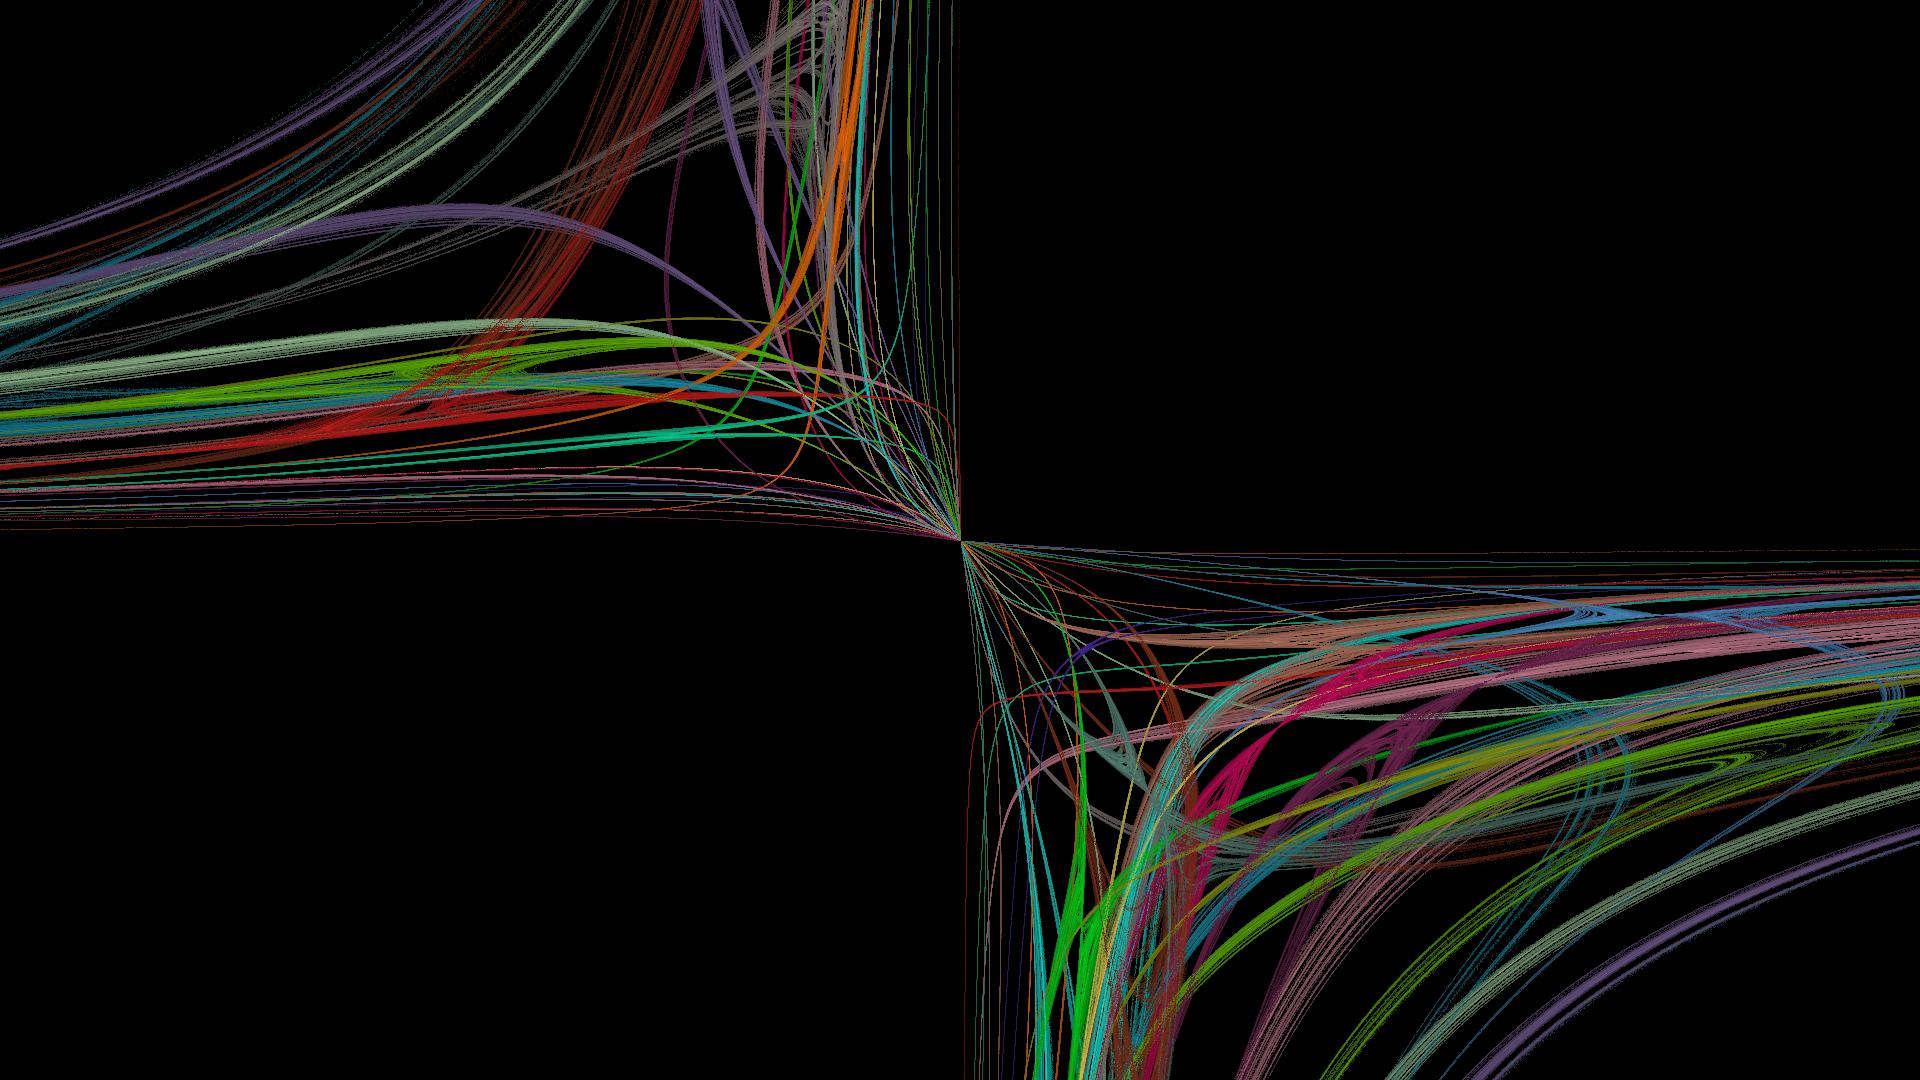
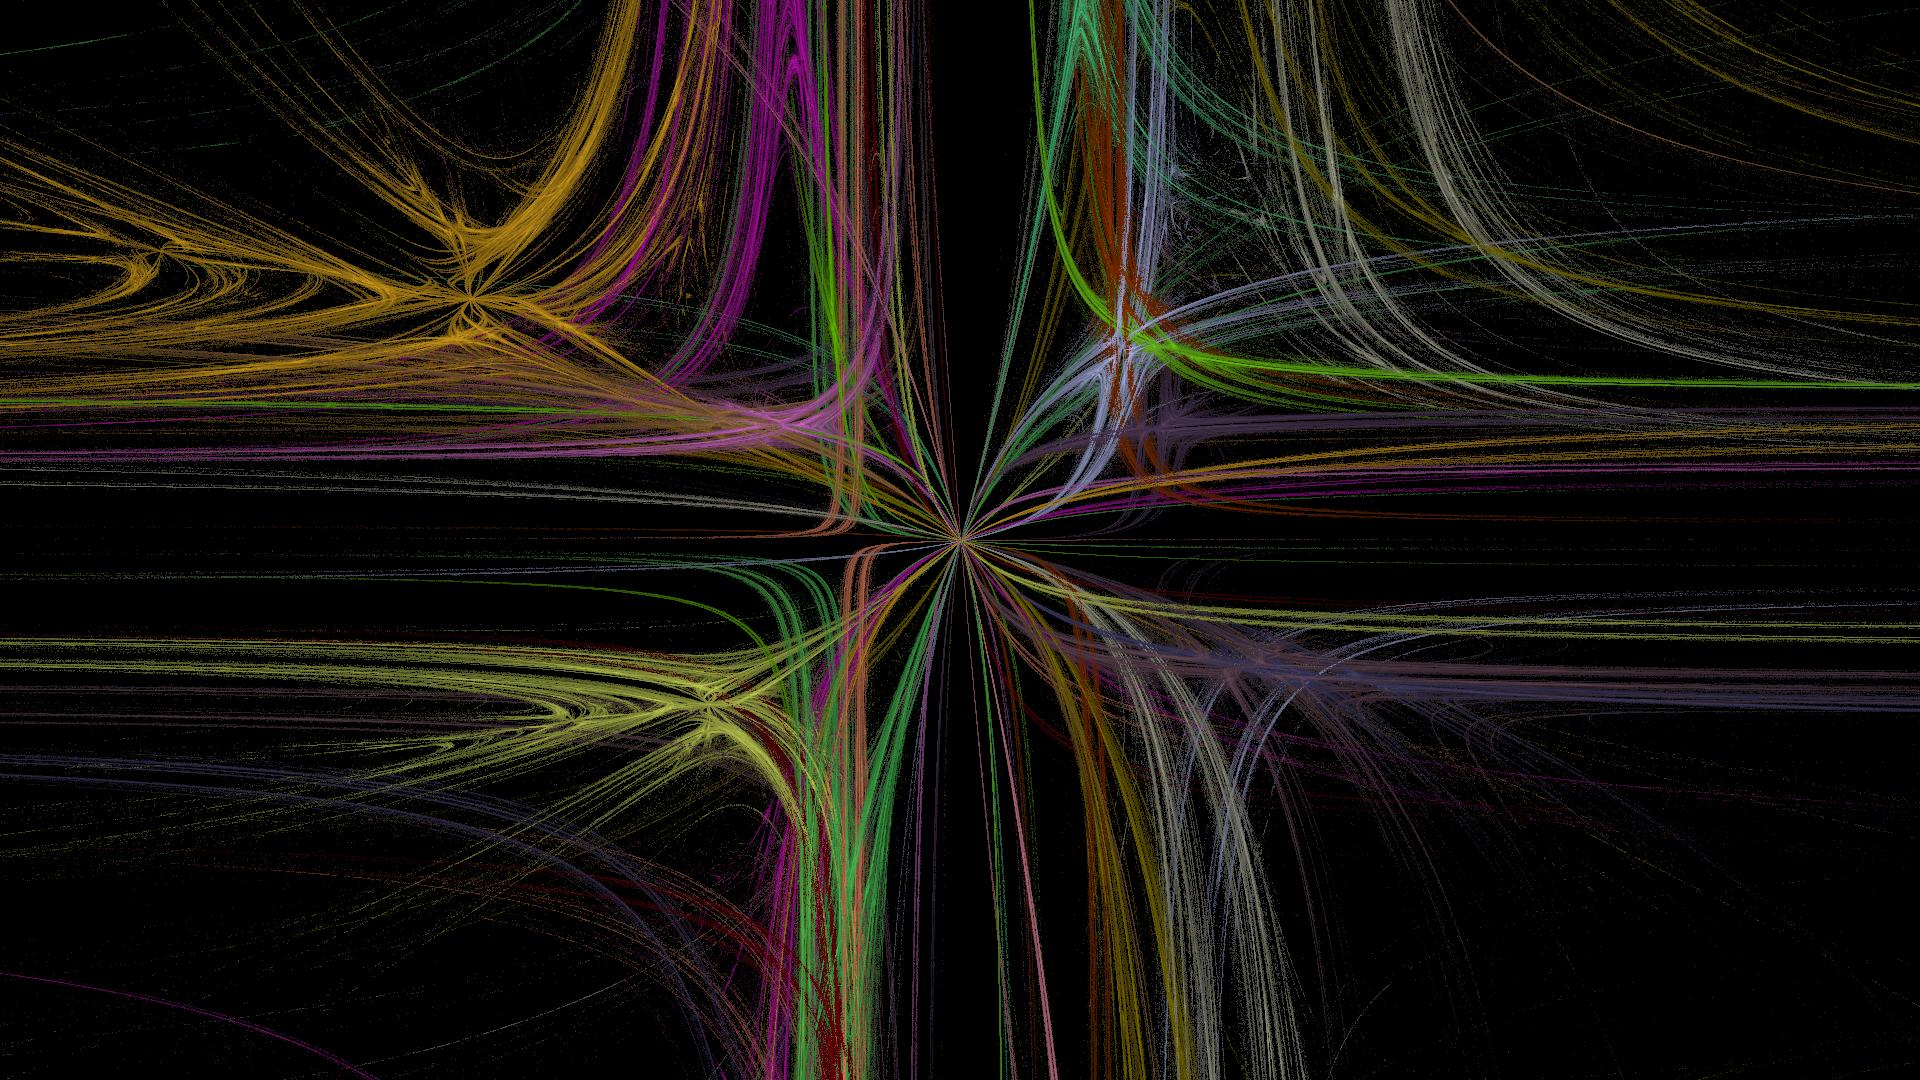
some updates for multiple thread alg

diff --git a/src/main/java/edu/project4/FractalFlameGenMultipleThread.java b/src/main/java/edu/project4/FractalFlameGenMultipleThread.java
@@ -22,18 +22,24 @@ public class FractalFlameGenMultipleThread {
     private static final double XMAX = 1.777;
     private static final double YMIN = -1;
     private static final double YMAX = 1;
-    private static final double GAMMA = 1;
+    private static final double GAMMA = 2.2;
 
     private final int fractals;
     private final int pixelsNum;
     private final int eqCount;
 
     Pixel[][] pixels = new Pixel[WIDTH][HEIGHT];
+    AffineTransformation[] transformations;
 
     public FractalFlameGenMultipleThread(int fractals, int pixelsNum, int eqCount) {
         this.fractals = fractals;
         this.pixelsNum = pixelsNum;
         this.eqCount = eqCount;
+
+        transformations = new AffineTransformation[eqCount];
+        for (int i = 0; i < eqCount; ++i) {
+            transformations[i] = getRandomTransformation();
+        }
 
         for (int i = 0; i < WIDTH; ++i) {
             for (int j = 0; j < HEIGHT; ++j) {
@@ -93,11 +99,7 @@ public class FractalFlameGenMultipleThread {
     }
 
     private void renderFractal() {
-        AffineTransformation[] transformations = new AffineTransformation[eqCount];
         Random random = new Random();
-        for (int i = 0; i < eqCount; ++i) {
-            transformations[i] = getRandomTransformation(random);
-        }
 
         double newX = random.nextDouble(XMIN, XMAX);
         double newY = random.nextDouble(YMIN, YMAX);
@@ -187,7 +189,8 @@ public class FractalFlameGenMultipleThread {
     }
 
     @SuppressWarnings("MagicNumber")
-    private AffineTransformation getRandomTransformation(Random random) {
+    private AffineTransformation getRandomTransformation() {
+        Random random = new Random();
         double a;
         double b;
         double d;
